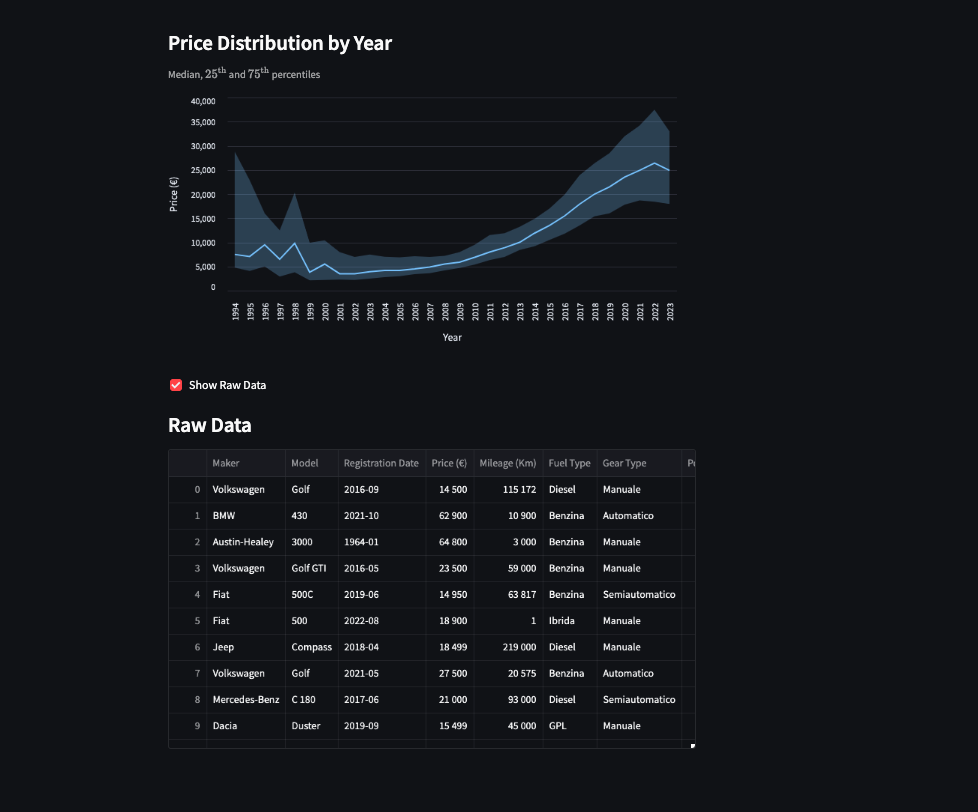
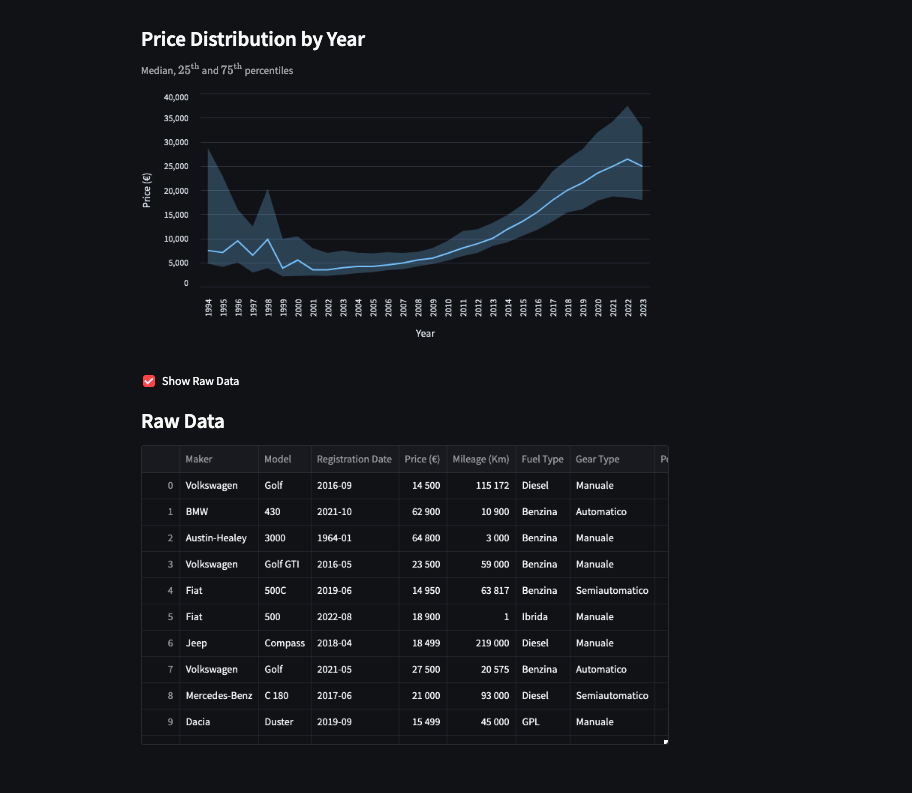
Update README

Changed region(s): [[0.1535, 0.5145, 0.7061, 0.9382], [0.1535, 0.0303, 0.7061, 0.4237], [0.1535, 0.454, 0.2763, 0.4842]]

diff --git a/README.md b/README.md
@@ -29,3 +29,10 @@ A collection of jupyter-notebooks used to:
 A small web app made in Streamlit. You can find:
 - a **Dashboard** showing the main metrics and plots about the collected data
 - a **Car Evaluator** where you can insert the features of your car (e.g. model, age and power) to obtain a real time estimate of its value.
+
+<p align="center">
+  <img width="500" src="/Screenshots/Dashboard%201.png"> <img width="500"src="/Screenshots/Dashboard%202.png">
+</p>
+<p align="center">
+  <img width="600" src="/Screenshots/Evaluator.png">
+</p>
